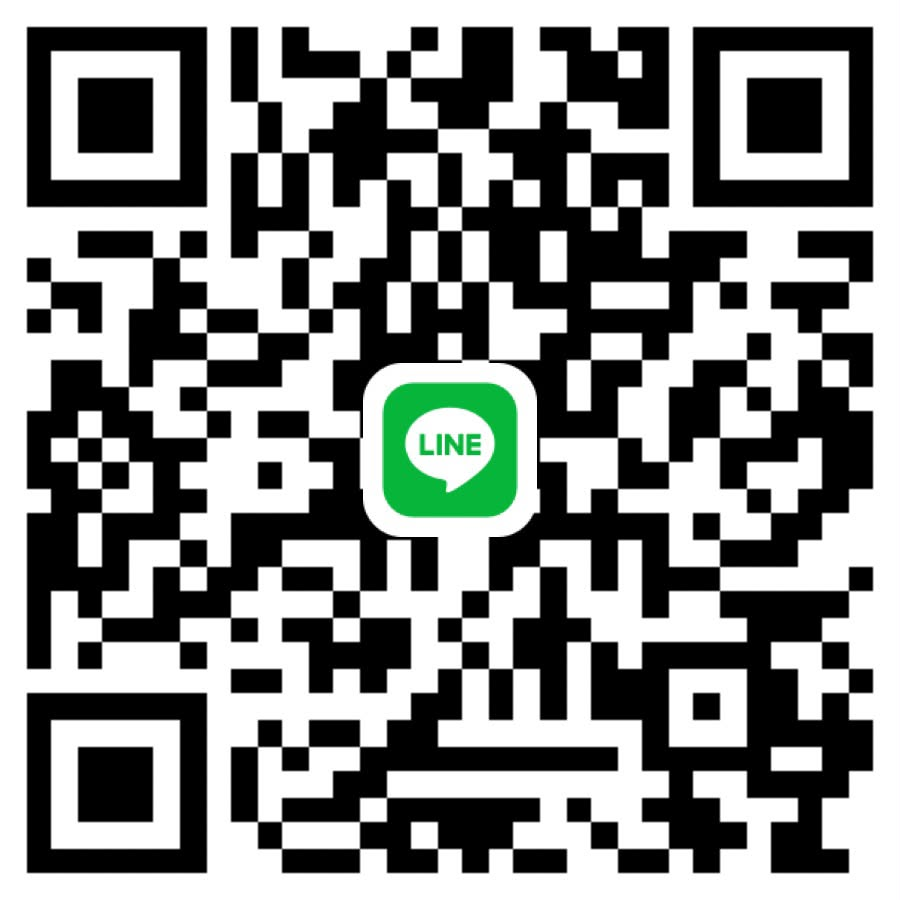
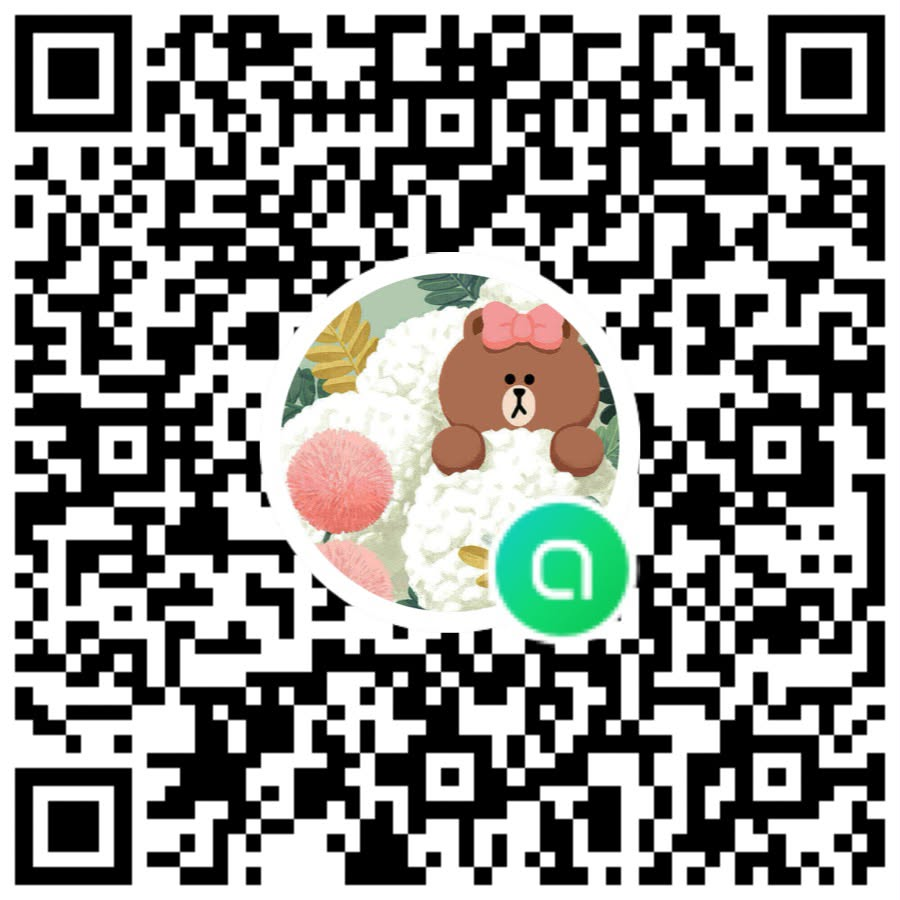
fix: refresh basketball line group

diff --git a/src/components/SportsTeamSection.jsx b/src/components/SportsTeamSection.jsx
@@ -13,7 +13,7 @@ import womensVolleyballPractice from '../assets/handbook/womens-volleyball-pract
 const volleyballLineUrl =
   'https://line.me/ti/g2/82MLum5GR8dTchxdD9rDCFQwF3B84LnVd_tUSw?utm_source=invitation&utm_medium=link_copy&utm_campaign=default'
 const basketballLineUrl =
-  'https://line.me/ti/g/B36ZpptW24'
+  'https://line.me/ti/g2/9QuFGBKQbHw1E3DzxaS8hyyY-kAUQ31fbKIRQQ?utm_source=invitation&utm_medium=link_copy&utm_campaign=default'
 
 const teamHighlights = [
   {
